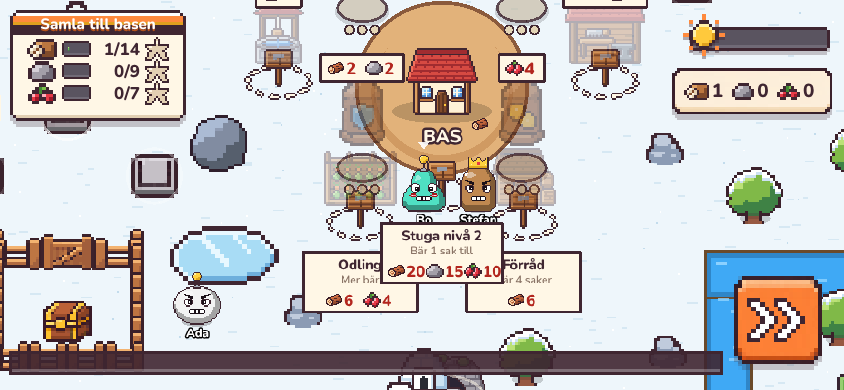
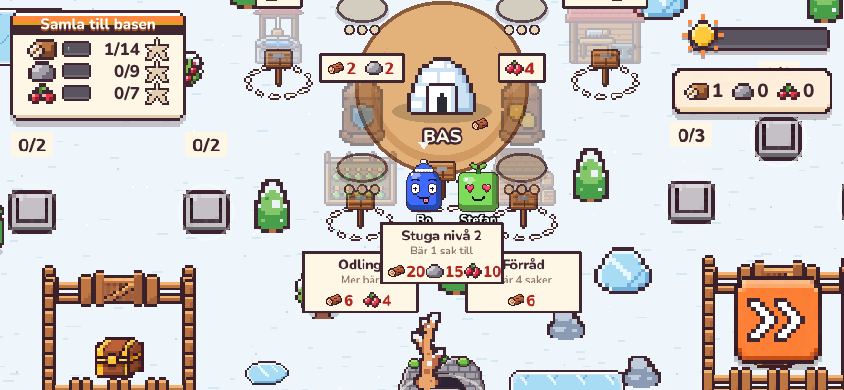
feat(blobz): snow map uses Art's winter set (v030d)
Winter berry bushes, ice rock, frozen ponds from the 3x3 autotile (4x2
tiles at 2x over the sim's ice ellipse), ice patches as decor, the igloo
as the level-1 base. Only stump-snow / rubble-snow remain tinted stand-ins.

Claude-Session: https://claude.ai/code/session_019PjhQvNgzNv3LAiBBHLhoY

diff --git a/blobz/src/game.ts b/blobz/src/game.ts
@@ -36,14 +36,13 @@ const TOOL_FRAME = { w: 44, h: 48, px: 16, py: 28 }; // tool strip frame + pivot
 const OBSTACLE_ART: [string, number][] = [['pr-tree-green', 3], ['pr-tree-orange', 3], ['pr-tree-pine', 3], ['pr-rock', 3], ['pr-boulder', 3], ['g-bush-berries', 3]];
 /** Snow map: Art's winter props (art/props-winter), integer scales. Kinds without winter art yet use a
  *  cold-tinted meadow sprite; a dedicated file is picked up automatically once it exists (WINTER_WANTED). */
-const WINTER_ART: [string, number][] = [['w-tree-snow-round', 3], ['w-tree-snow-pine', 3], ['w-tree-snow-small', 4], ['w-rock-snow', 3], ['w-ice-rock', 3], ['w-bush-winter-berries', 3]];
-const WINTER_SPENT: [string, number][] = [['w-stump-snow', 3], ['w-stump-snow', 3], ['w-stump-snow', 3], ['w-rubble-snow', 3], ['w-rubble-snow', 3], ['w-bush-winter-empty', 3]];
-/** Missing winter files and their tinted stand-ins (key -> [placeholder, tint]). */
+const WINTER_ART: [string, number][] = [['w-tree-snow-round', 3], ['w-tree-snow-pine', 3], ['w-tree-snow-small', 4], ['w-rock-snow', 3], ['w-ice-rock', 4], ['w-bush-berries-snow', 3]];
+const WINTER_SPENT: [string, number][] = [['w-stump-snow', 3], ['w-stump-snow', 3], ['w-stump-snow', 3], ['w-rubble-snow', 3], ['w-rubble-snow', 3], ['w-bush-empty-snow', 3]];
+/** Winter files Art has not drawn yet and their tinted stand-ins (key -> [placeholder, tint]). */
 const WINTER_WANTED: Record<string, [string, number]> = {
-  'w-ice-rock': ['pr-boulder', 0xcfe6ff], 'w-bush-winter-berries': ['g-bush-berries', 0xdbeaff], 'w-bush-winter-empty': ['g-bush-empty', 0xdbeaff],
   'w-stump-snow': ['pr-stump', 0xe8f2ff], 'w-rubble-snow': ['g-rubble', 0xe8f2ff],
 };
-const WINTER = ['tree-snow-round', 'tree-snow-pine', 'tree-snow-small', 'rock-snow', 'snowman', 'igloo', 'ice', 'tree-bare', ...Object.keys(WINTER_WANTED).map((k) => k.slice(2))];
+const WINTER = ['tree-snow-round', 'tree-snow-pine', 'tree-snow-small', 'rock-snow', 'ice-rock', 'bush-berries-snow', 'bush-empty-snow', 'snowman', 'igloo', 'ice', 'tree-bare', ...Object.keys(WINTER_WANTED).map((k) => k.slice(2))];
 
 /** Look of a used-up node: stump, rubble, picked bush. */
 const SPENT_ART: [string, number][] = [['pr-stump', 3], ['pr-stump', 3], ['pr-stump', 3], ['g-rubble', 3], ['g-rubble', 3], ['g-bush-empty', 3]];
@@ -159,6 +158,7 @@ export class GameScene extends Phaser.Scene {
     if (this.s.biome === 'snow') {
       this.load.on('loaderror', () => { /* winter art not drawn yet: tinted stand-ins below */ });
       for (const n of WINTER) this.load.image('w-' + n, `art/props-winter/${n}.png`);
+      this.load.spritesheet('w-pond', 'art/props-winter/pond-frozen-tiles.png', { frameWidth: 16, frameHeight: 16 });
     }
   }
 
@@ -225,7 +225,7 @@ export class GameScene extends Phaser.Scene {
     this.baseG = this.add.graphics().setDepth(-900);
     this.add.ellipse(BASE.x, BASE.y + 26, 110, 26, 0x000000, 0.18).setDepth(-880);
     // cottage (Art's base set, level 1-3), integer scale 2, anchored bottom centre
-    this.cottageImg = this.add.image(BASE.x, BASE.y + 30, 'b-cottage-1').setScale(2).setOrigin(0.5, 1).setDepth(BASE.y - 40);
+    this.cottageImg = this.add.image(BASE.x, BASE.y + 30, this.s.biome === 'snow' ? 'w-igloo' : 'b-cottage-1').setScale(this.s.biome === 'snow' ? 4 : 2).setOrigin(0.5, 1).setDepth(BASE.y - 40);
     // the water corner (an L of water around a seeded corner; the bridge opens it)
     const water = makeWater(this.s.seed);
     this.water = water;
@@ -271,11 +271,16 @@ export class GameScene extends Phaser.Scene {
     }
     if (this.s.biome === 'snow') {
       // frozen ponds (slippery in the sim) + an igloo or two
-      for (const i of ice) this.add.image(i.x, i.y, 'w-ice').setScale(5).setDepth(-650);
-      for (let i = 0, placed = 0; i < 40 && placed < 2; i++) {
+      // frozen ponds from Art's 3x3 autotile: 4x2 tiles at 2x = 128x64, the sim's ice ellipse
+      for (const i of ice) {
+        const frames = [[0, 1, 1, 2], [6, 7, 7, 8]];
+        frames.forEach((row, ry) => row.forEach((f, cx) => this.add.image(i.x - 64 + cx * 32, i.y - 32 + ry * 32, 'w-pond', f).setOrigin(0).setScale(2).setDepth(-650)));
+      }
+      // a few small ice patches as decor
+      for (let i = 0, placed = 0; i < 40 && placed < 3; i++) {
         const x = 120 + r() * (WORLD_W - 240), y = 120 + r() * (WORLD_H - 240);
-        if (Math.hypot(x - BASE.x, y - BASE.y) < BASE.r + 220 || trees.some((t) => Math.hypot(t.x - x, t.y - y) < 80) || inZone(x, y, 40)) continue;
-        this.add.image(x, y, 'w-igloo').setScale(3).setOrigin(0.5, 0.9).setDepth(y); placed++;
+        if (Math.hypot(x - BASE.x, y - BASE.y) < BASE.r + 220 || trees.some((t) => Math.hypot(t.x - x, t.y - y) < 60) || inZone(x, y, 30)) continue;
+        this.add.image(x, y, 'w-ice').setScale(2).setDepth(-655); placed++;
       }
     }
 
@@ -563,8 +568,10 @@ export class GameScene extends Phaser.Scene {
 
   private drawBuilds(v: View, now: number) {
     if (!v.builds || !v.cottage) return;
-    const ck = 'b-cottage-' + Math.max(1, Math.min(3, v.cottage.level));
-    if (this.cottageImg.texture.key !== ck) this.cottageImg.setTexture(ck);
+    // snow map: the igloo is the level-1 base (Art: cottage footprint); upgrades use the cottage art
+    const lvl = Math.max(1, Math.min(3, v.cottage.level));
+    const ck = this.s.biome === 'snow' && lvl === 1 ? 'w-igloo' : 'b-cottage-' + lvl;
+    if (this.cottageImg.texture.key !== ck) this.cottageImg.setTexture(ck).setScale(ck === 'w-igloo' ? 4 : 2);
     const pads = [
       ...v.builds.map((b) => ({ kind: b.kind as BuildKind | 'cottage', at: BUILD_SPOTS[b.kind], state: b.state, paid: b.paid, buy: b.buy, cost: BUILD_COST[b.kind] as Res | null, title: BUILD_NAMES[b.kind], effect: BUILD_EFFECT[b.kind] })),
       { kind: 'cottage' as const, at: COTTAGE_PAD, state: v.cottage.state as 0 | 1 | 2, paid: v.cottage.paid, buy: v.cottage.buy,
